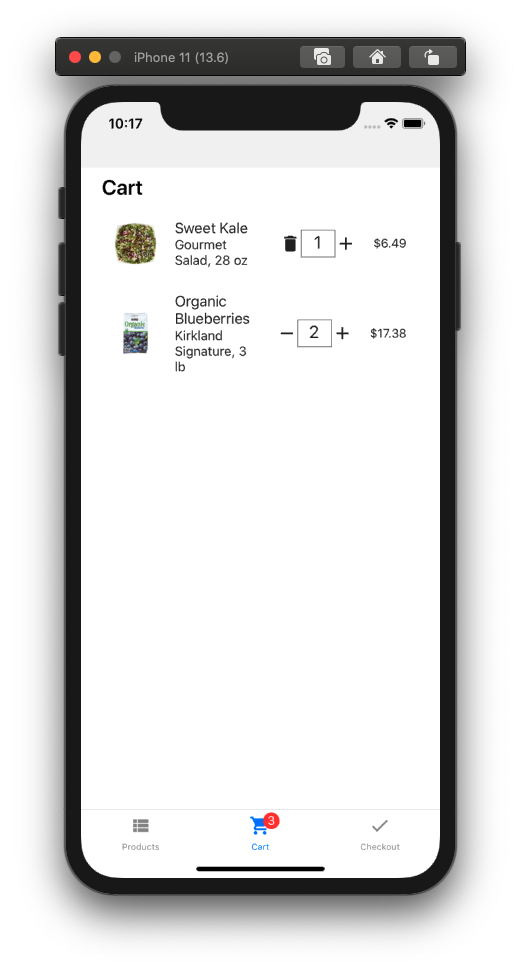
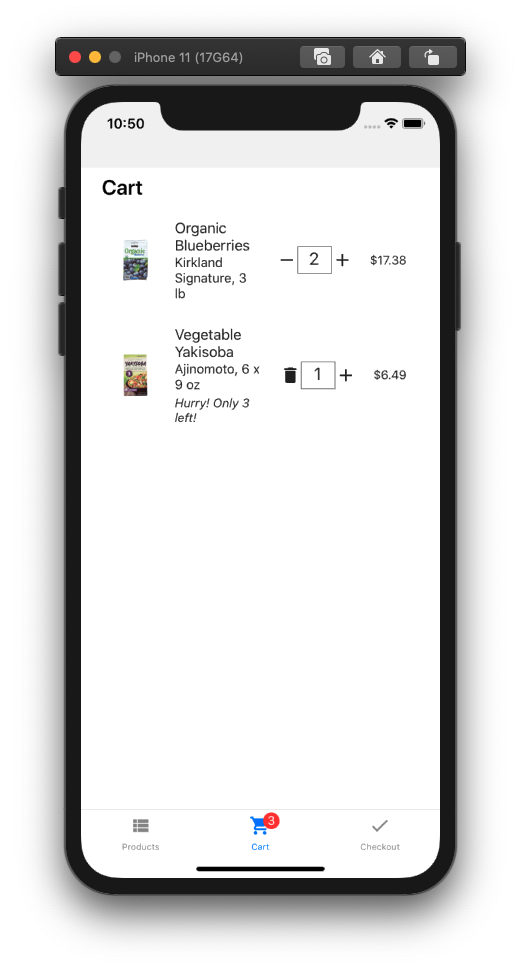
add inverntory feature and feedback for inventory. update readme images.

diff --git a/reducer/products.js b/reducer/products.js
@@ -21,6 +21,7 @@ const initialState = {
     src: bagette,
     description: 'Kirkland Signature, 2 x 24 oz',
     price: 5.84,
+    inventory: 80,
   },
   meatballs: {
     id: 'meatballs',
@@ -28,6 +29,7 @@ const initialState = {
     src: meatballs,
     description: 'Beyond Meat, 2/10 Oz',
     price: 11.69,
+    inventory: 50,
   },
   chao: {
     id: 'chao',
@@ -35,6 +37,7 @@ const initialState = {
     src: chao,
     description: 'Field Roast, 3 x 7 oz.',
     price: 11.69,
+    inventory: 0,
   },
   kale_salad: {
     id: 'kale_salad',
@@ -42,6 +45,7 @@ const initialState = {
     src: kale_salad,
     description: 'Gourmet Salad, 28 oz',
     price: 6.49,
+    inventory: 40,
   },
   yaki_soba: {
     id: 'yaki_soba',
@@ -49,6 +53,7 @@ const initialState = {
     src: yaki_soba,
     description: 'Ajinomoto, 6 x 9 oz',
     price: 6.49,
+    inventory: 4,
   },
   blueberries: {
     id: 'blueberries',
@@ -56,6 +61,7 @@ const initialState = {
     src: blueberries,
     description: 'Kirkland Signature, 3 lb',
     price: 8.69,
+    inventory: 80,
   },
   strawberries: {
     id: 'strawberries',
@@ -63,6 +69,7 @@ const initialState = {
     src: strawberries,
     description: 'Kirkland Signature, 4 lb',
     price: 11.45,
+    inventory: 110,
   },
   grapefruit: {
     id: 'grapefruit',
@@ -70,6 +77,7 @@ const initialState = {
     src: grapefruit,
     description: '8 lbs',
     price: 11.69,
+    inventory: 60,
   },
   canteloupe: {
     id: 'canteloupe',
@@ -77,6 +85,7 @@ const initialState = {
     src: canteloupe,
     description: '2 ct',
     price: 7.01,
+    inventory: 10,
   },
   berry_blend: {
     id: 'berry_blend',
@@ -84,6 +93,7 @@ const initialState = {
     src: berry_blend,
     description: 'Kirkland Signature, 4 lb',
     price: 11.69,
+    inventory: 60,
   },
   cocoa: {
     id: 'cocoa',
@@ -91,6 +101,7 @@ const initialState = {
     src: cocoa,
     description: 'Volupta, 32 oz',
     price: 11.69,
+    inventory: 90,
   },
   beef: {
     id: 'beef',
@@ -98,6 +109,7 @@ const initialState = {
     src: beef,
     description: 'Cuisine Solutions',
     price: 21.77,
+    inventory: 70,
   },
   bell_pepper: {
     id: 'bell_pepper',
@@ -105,17 +117,22 @@ const initialState = {
     src: bell_pepper,
     description: 'Greenhouse Grown, 6 ct',
     price: 10.52,
+    inventory: 10,
   },
 };
 
 export default function reducer(state = initialState, action) {
-  const { type } = action;
+  const { type, payload } = action;
 
   switch (type) {
     case ADD_TO_CART:
-      return state;
+      const addProduct = { ...state[payload] };
+      addProduct.inventory--;
+      return { ...state, [payload]: addProduct };
     case REMOVE_FROM_CART:
-      return state;
+      const removeProduct = { ...state[payload] };
+      removeProduct.inventory++;
+      return { ...state, [payload]: removeProduct };
     default:
       return state;
   }

diff --git a/components/Product/index.js b/components/Product/index.js
@@ -11,9 +11,17 @@ const Product = ({ item }) => {
     src,
     price,
     count,
+    inventory,
     onAddToCart,
     onRemoveFromCart,
   } = item;
+
+  let inventoryMessage;
+  if (inventory === 0) {
+    inventoryMessage = 'Out of stock';
+  } else if (inventory < 10) {
+    inventoryMessage = `Hurry! Only ${inventory} left!`;
+  }
   return (
     <ListItem Component={TouchableHighlight} pad={20}>
       <View style={styles.imageWrapper}>
@@ -27,9 +35,13 @@ const Product = ({ item }) => {
           <Text>{description}</Text>
         </ListItem.Subtitle>
         <Text style={styles.price}>{formatDollars(price)}</Text>
+        {inventoryMessage && (
+          <Text style={styles.inventory}>{inventoryMessage}</Text>
+        )}
       </ListItem.Content>
       <AddRemove
         count={count}
+        inventory={inventory}
         item={item}
         onAdd={() => onAddToCart(item.id)}
         onRemove={() => onRemoveFromCart(item.id)}
@@ -41,6 +53,7 @@ const Product = ({ item }) => {
 const styles = StyleSheet.create({
   imageWrapper: { alignItems: 'center', justifyContent: 'center' },
   price: { marginTop: 4 },
+  inventory: { marginTop: 4, fontStyle: 'italic' },
   image: { width: 50, height: 50 },
 });
 

diff --git a/components/CartItem/index.js b/components/CartItem/index.js
@@ -11,9 +11,18 @@ const CartItem = ({ item }) => {
     src,
     price,
     count,
+    inventory,
     onAddToCart,
     onRemoveFromCart,
   } = item;
+
+  let inventoryMessage;
+  if (inventory === 0) {
+    inventoryMessage = 'Out of stock';
+  } else if (inventory < 10) {
+    inventoryMessage = `Hurry! Only ${inventory} left!`;
+  }
+
   return (
     <ListItem Component={TouchableHighlight} pad={20}>
       <View style={styles.imageWrapper}>
@@ -26,9 +35,13 @@ const CartItem = ({ item }) => {
         <ListItem.Subtitle>
           <Text>{description}</Text>
         </ListItem.Subtitle>
+        {inventoryMessage && (
+          <Text style={styles.inventory}>{inventoryMessage}</Text>
+        )}
       </ListItem.Content>
       <AddRemove
         count={count}
+        inventory={inventory}
         item={item}
         onAdd={() => onAddToCart(item.id)}
         onRemove={() => onRemoveFromCart(item.id)}
@@ -41,6 +54,7 @@ const CartItem = ({ item }) => {
 const styles = StyleSheet.create({
   imageWrapper: { alignItems: 'center', justifyContent: 'center' },
   image: { width: 50, height: 50 },
+  inventory: { marginTop: 4, fontStyle: 'italic' },
 });
 
 export default CartItem;

diff --git a/components/AddRemove/index.js b/components/AddRemove/index.js
@@ -2,7 +2,7 @@ import * as React from 'react';
 import { Text, Icon } from 'react-native-elements';
 import { View, StyleSheet } from 'react-native';
 
-const AddRemove = ({ count, onAdd, onRemove }) => {
+const AddRemove = ({ count, inventory, onAdd, onRemove }) => {
   return (
     <View style={styles.controls}>
       {count > 0 && (
@@ -13,7 +13,9 @@ const AddRemove = ({ count, onAdd, onRemove }) => {
           <Text style={styles.quantity}>{count}</Text>
         </View>
       )}
-      <Icon name="add" onPress={onAdd} />
+      {(inventory > 0 || count > 0) && (
+        <Icon name="add" onPress={onAdd} disabled={inventory === 0} />
+      )}
     </View>
   );
 };
